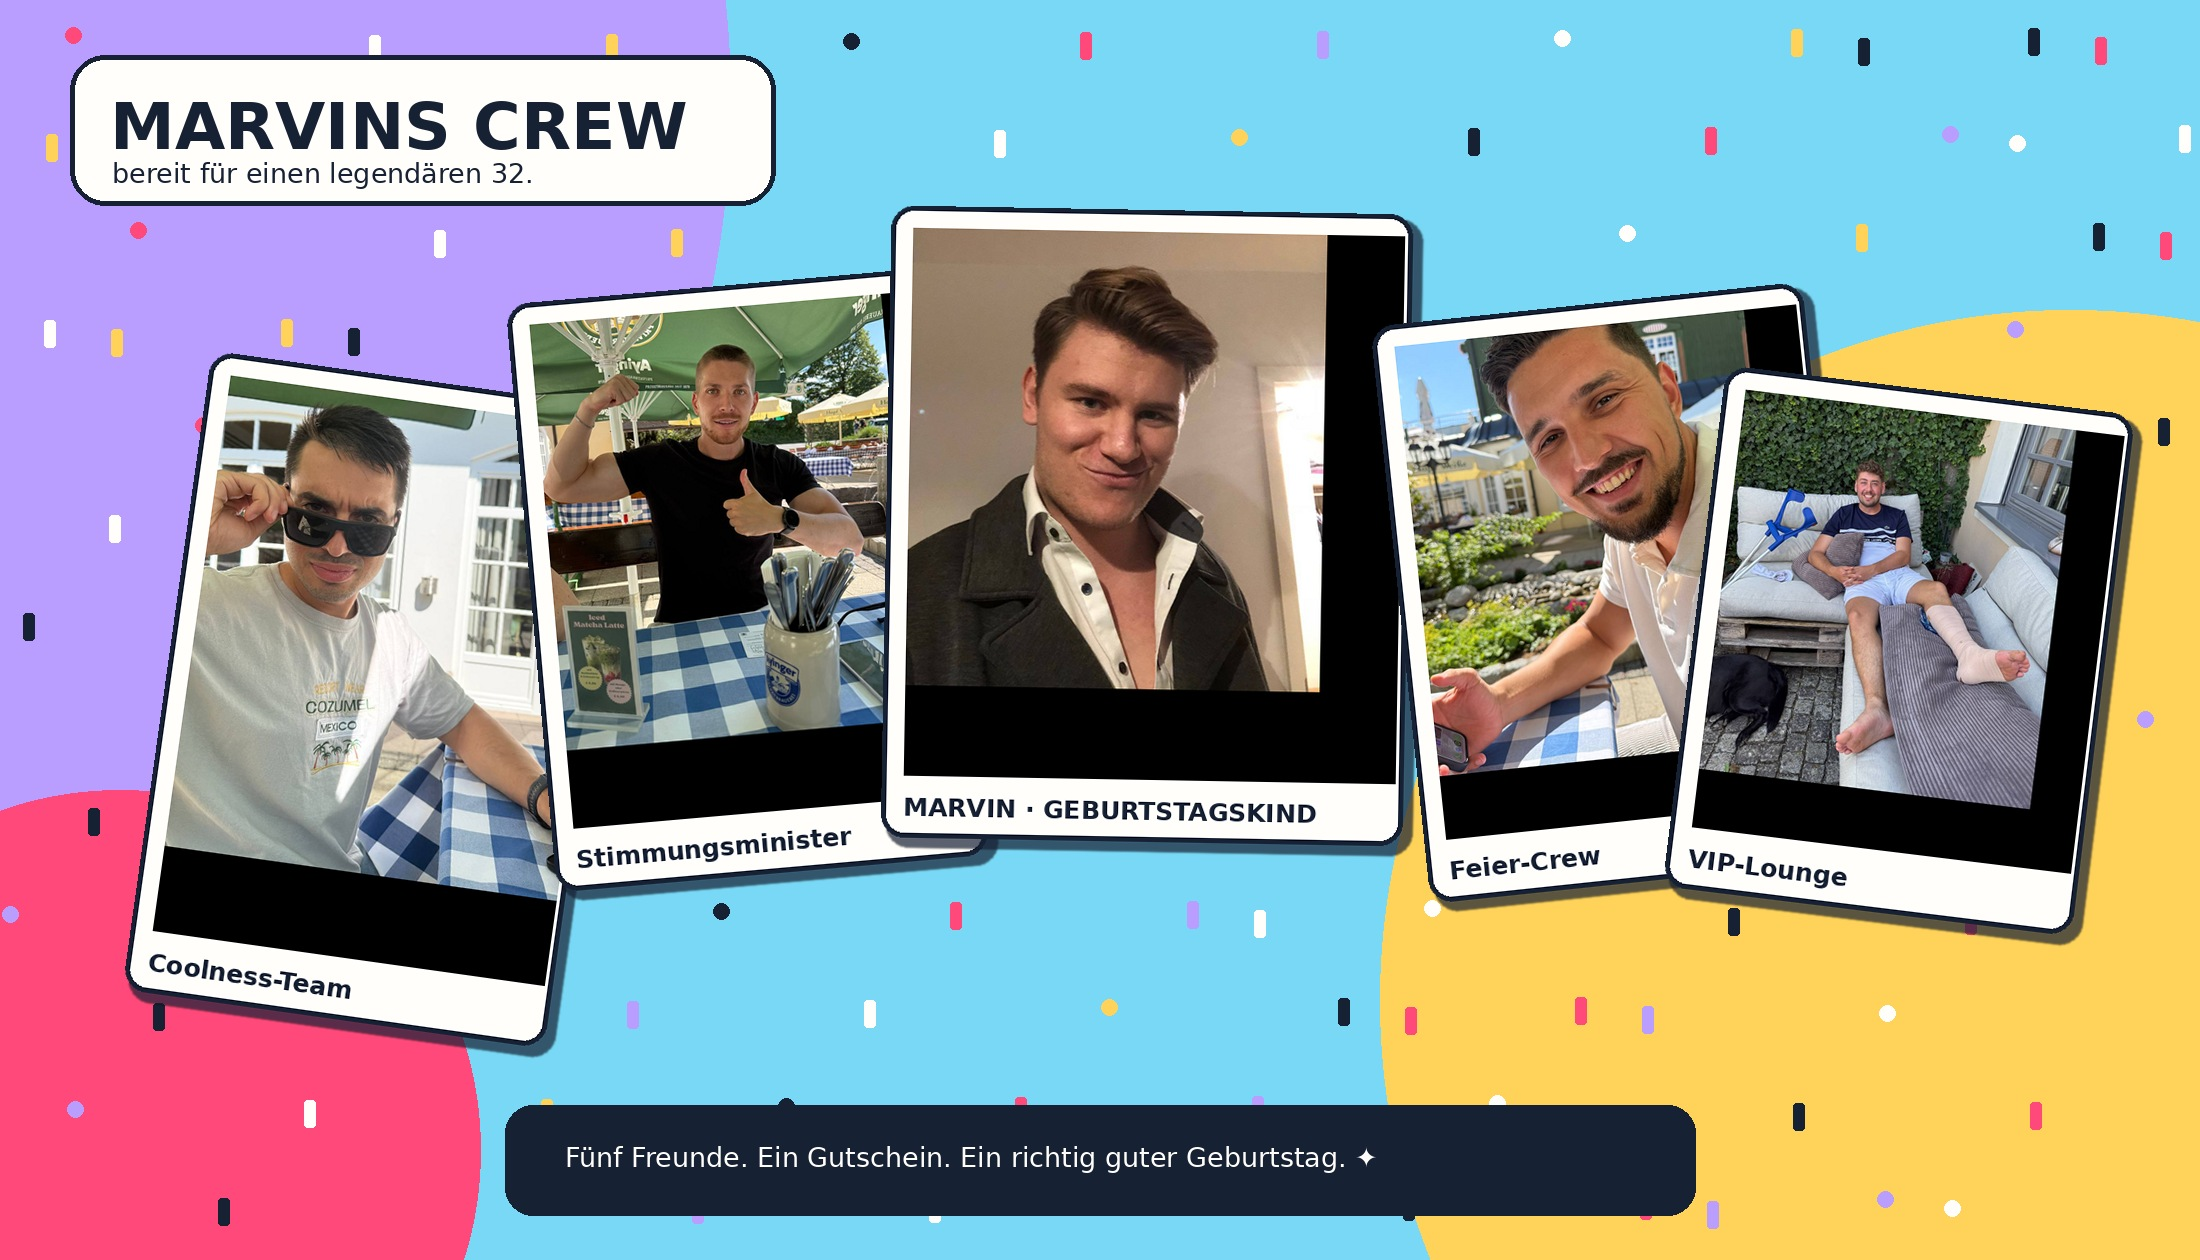
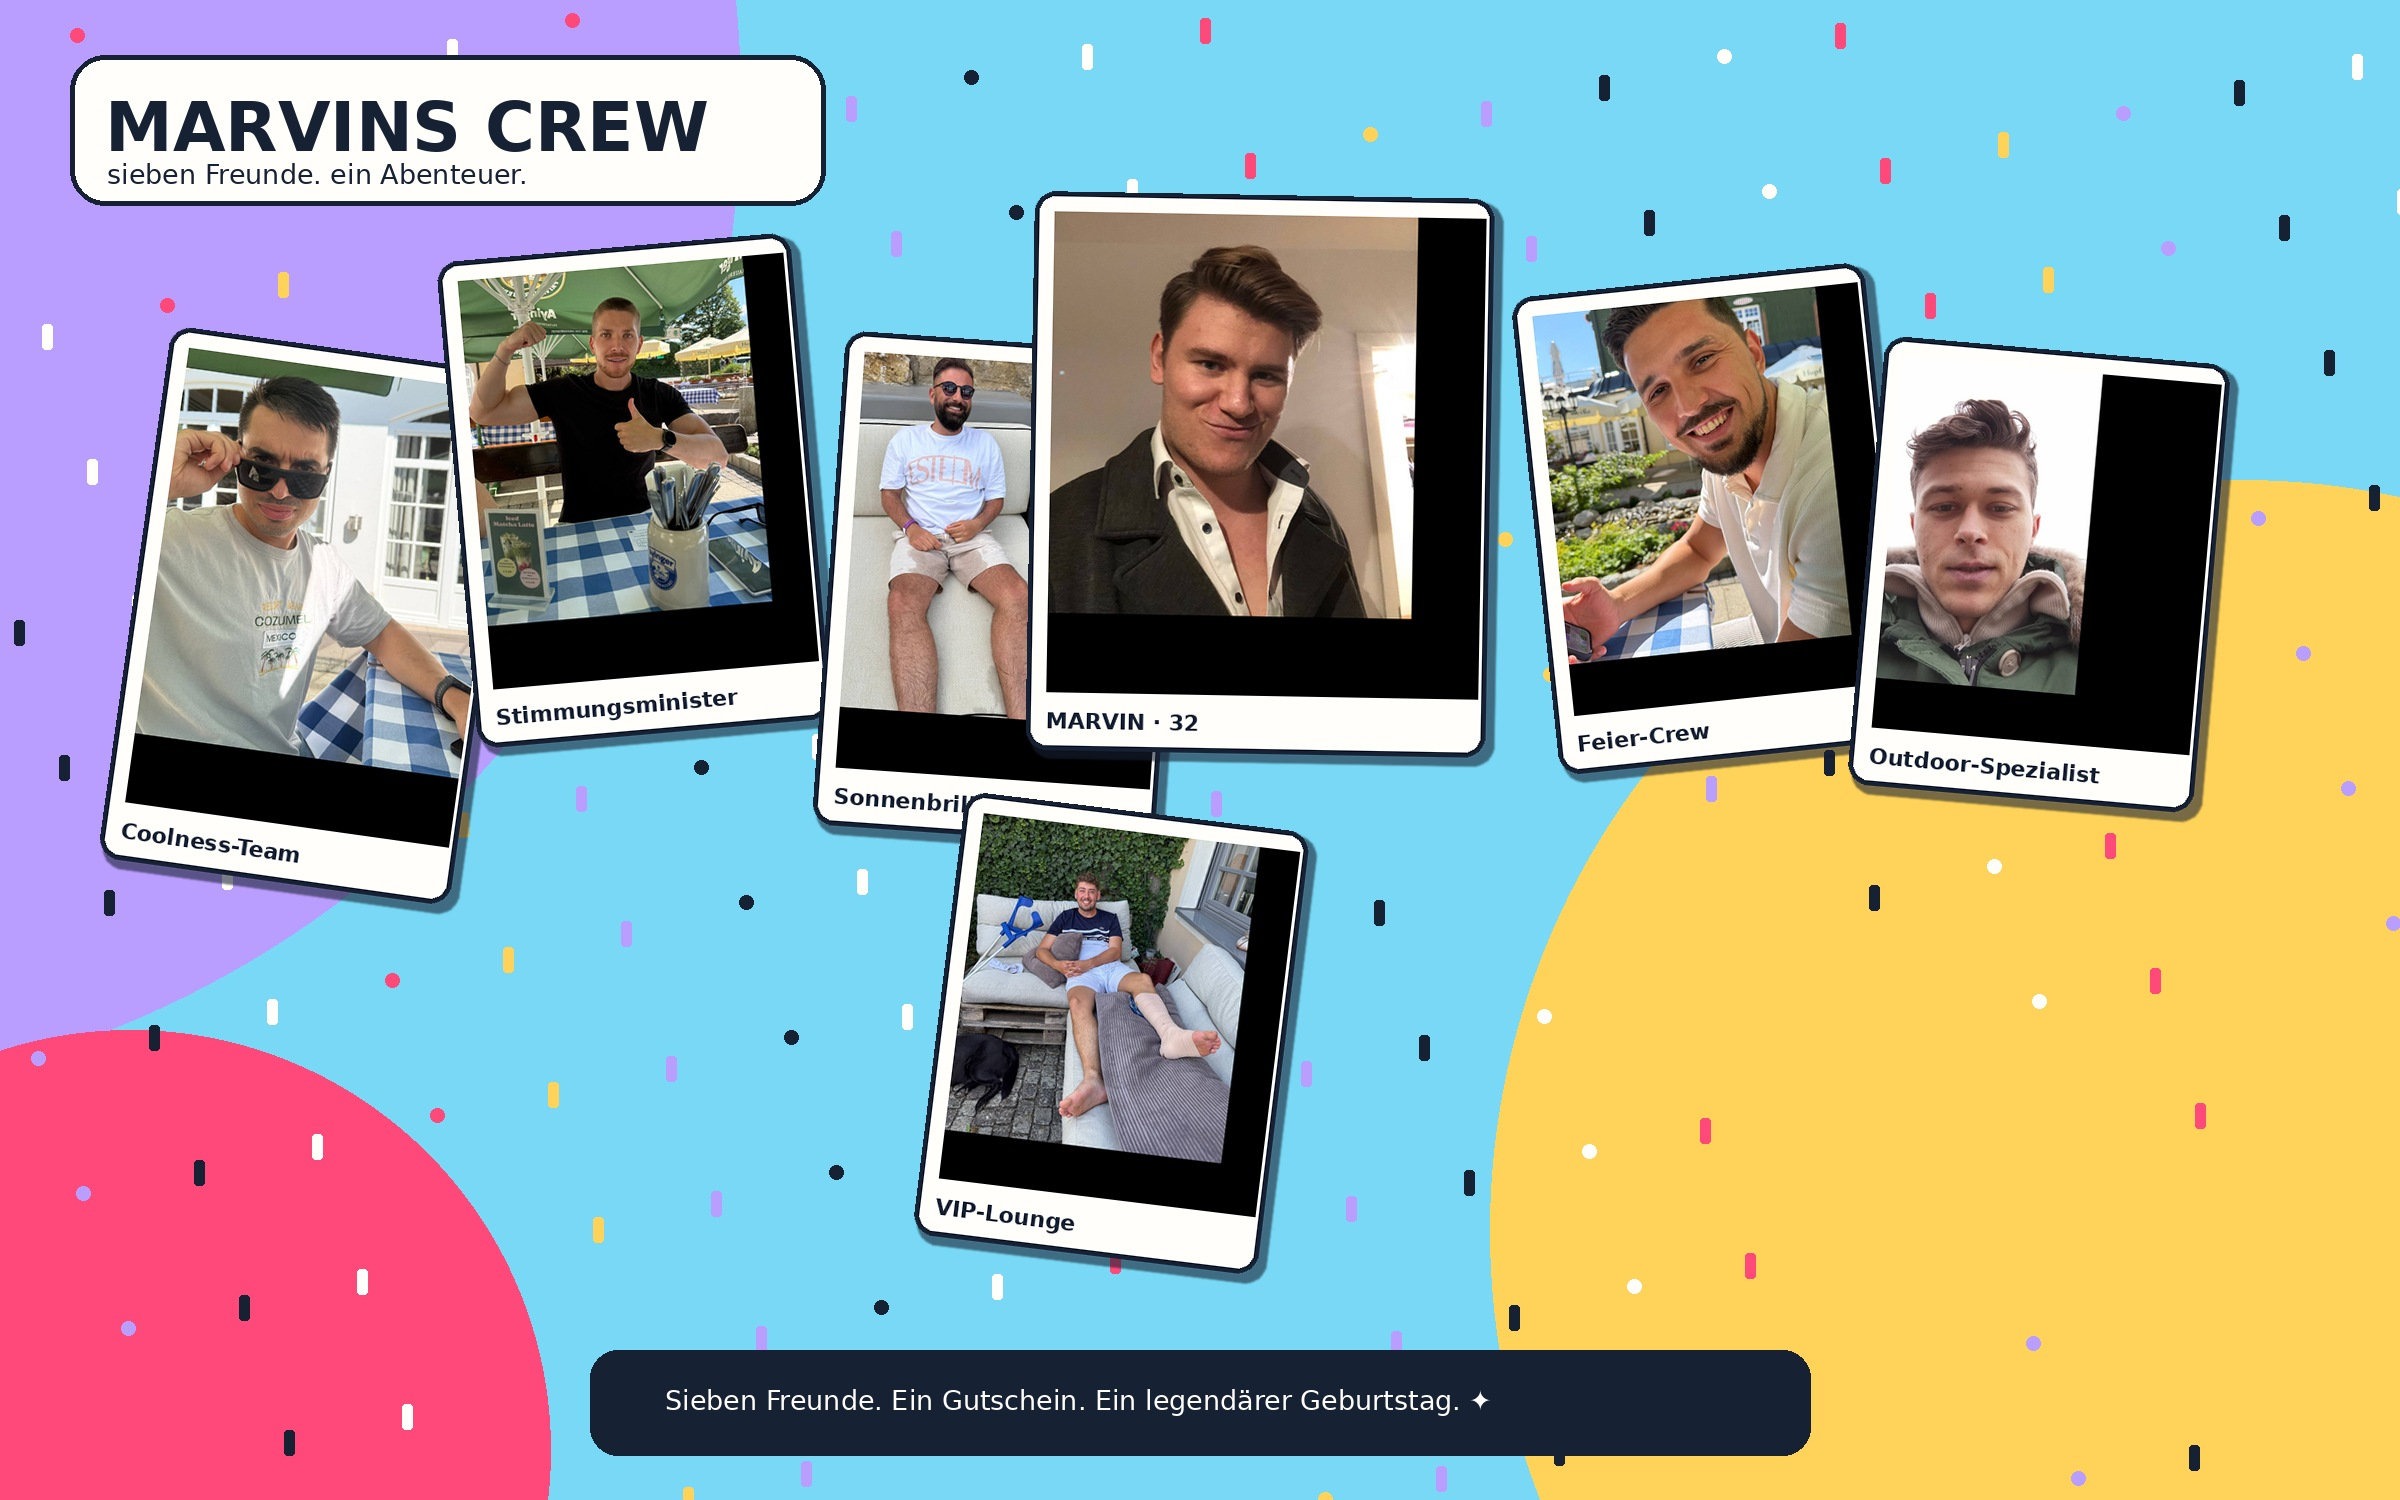
Expand final birthday crew collage

diff --git a/index.html b/index.html
@@ -15,7 +15,7 @@
 </head><body>
 <div class="confetti" id="confetti"></div>
 <main id="gate"><section class="gate-card"><div class="tiny">Nur für Marvin · 32</div><h1>pssst…</h1><p>Hier wartet etwas Buntes, Persönliches und ziemlich Gutes auf dich.</p><button class="unlock" id="unlock">Überraschung öffnen ✦</button><div class="lock-note">Für Marvin · mit Liebe zusammengestellt</div></section></main>
-<main id="gift"><header class="topline"><span>Marvins Geburtstags-Überraschung</span><span class="badge">Level 32 unlocked</span></header><section class="hero"><div class="balloon b1"></div><div class="balloon b2"></div><div class="balloon b3"></div><div class="balloon b4"></div><div class="hero-inner"><div class="eyebrow"><span class="spark">✦</span> heute wird gefeiert</div><h2>Happy<br><em>32.</em> Marvin!</h2><p class="sub">Für ein neues Jahr voller guter Geschichten, großer Ideen und genau der richtigen Portion Abenteuer.</p><div class="scroll-cue">Deine Überraschung <span class="arrow">↓</span></div></div></section><section class="section"><div class="voucher-wrap"><div class="section-head"><div class="tiny">Ein Geschenk für dich</div><h3>Such dir etwas aus,<br>das dich weiterbringt.</h3></div><article class="voucher"><div class="voucher-left"><div class="tiny">Dein Wertgutschein</div><div class="amount">400 €</div><h4>Freie Kurswahl</h4><p>Ganz in deinem Tempo. Ganz nach deinem Geschmack. Dieser Gutschein gehört dir.</p></div><div class="voucher-right"><div><div class="ticket">GUTSCHEIN · 26-057<br>FÜR · MARVIN SIEWERT<br>GÜLTIG BIS · 31.12.2029</div><button class="reveal" id="reveal">Code anzeigen</button><div class="secret" id="secret">Gutscheincode: <strong>pi0z3k</strong></div></div><p class="ticket">Einlösen, Kurs auswählen, loslegen.</p></div></article></div></section><section class="survival"><div class="section-head"><div class="tiny">Mission zum 32.</div><h3>Survival statt<br>Sofasurfen.</h3></div><div class="mission"><div class="mission-copy"><h4>Die Mammut-Mission</h4><p>Ein 400-€-Gutschein für dein nächstes Survival-Training: raus in die Wildnis, Feuer an, Orientierung finden und als Crew wieder heimkommen.</p><p>Marvin geht voran — das Mammut hält die Stellung.</p></div><div class="mission-art"><img src="assets/mammoth-party.svg" alt="Fröhliches Mammut mit Partyhut"></div></div><div class="skills"><div class="skill"><span>01 · Feuer</span><b>Glut statt Google</b><small>Feuer machen, wenn es zählt.</small></div><div class="skill"><span>02 · Orientierung</span><b>Wegfinder</b><small>Karte, Kompass und Kopf.</small></div><div class="skill"><span>03 · Shelter</span><b>Wetterfest</b><small>Schutz bauen, draußen bleiben.</small></div><div class="skill"><span>04 · Crew</span><b>Mammut-Modus</b><small>Zusammen durch jedes Gelände.</small></div></div></section><section class="profiles"><div class="section-head"><div class="tiny">Die Expeditionsteilnehmer</div><h3>Steckbriefe der<br>Survival-Crew.</h3></div><div class="profile-grid"><article class="profile"><img src="assets/guest-sunglasses.jpg" alt="Teilnehmer mit Sonnenbrille"><div><b>Der Coolness-Scout</b><span>Sonnenbrillen-Expertise</span></div></article><article class="profile"><img src="assets/guest-cheers.jpg" alt="Teilnehmer mit Daumen hoch"><div><b>Der Motivator</b><span>Daumen hoch, immer</span></div></article><article class="profile"><img src="assets/birthday-boy.jpg" alt="Marvin, das Geburtstagskind"><div><b>Marvin · 32</b><span>Leit-Mammut</span></div></article><article class="profile"><img src="assets/guest-white-polo.jpg" alt="Teilnehmer der Feier"><div><b>Der Lagerfeuer-Profi</b><span>Feier-Crew</span></div></article><article class="profile"><img src="assets/guest-garden.jpg" alt="Teilnehmer in Gartenlounge"><div><b>Der VIP-Überlebenskünstler</b><span>Ruhe vor dem Sturm</span></div></article></div></section><section class="guests"><div class="section-head"><div class="tiny">Die Mannschaft ist da</div><h3>Alle zusammen<br>für Marvin.</h3></div><figure class="guest-together"><img src="assets/birthday-guests-together.jpg" alt="Fünf Geburtstagsgäste zusammen in einer bunten Geburtstagscollage"><figcaption>Marvin und seine Crew — bereit für die Feier.</figcaption></figure></section></section><footer class="footer">Mit viel Liebe für ein richtig gutes neues Lebensjahr. <span class="spark">✦</span></footer></main>
+<main id="gift"><header class="topline"><span>Marvins Geburtstags-Überraschung</span><span class="badge">Level 32 unlocked</span></header><section class="hero"><div class="balloon b1"></div><div class="balloon b2"></div><div class="balloon b3"></div><div class="balloon b4"></div><div class="hero-inner"><div class="eyebrow"><span class="spark">✦</span> heute wird gefeiert</div><h2>Happy<br><em>32.</em> Marvin!</h2><p class="sub">Für ein neues Jahr voller guter Geschichten, großer Ideen und genau der richtigen Portion Abenteuer.</p><div class="scroll-cue">Deine Überraschung <span class="arrow">↓</span></div></div></section><section class="section"><div class="voucher-wrap"><div class="section-head"><div class="tiny">Ein Geschenk für dich</div><h3>Such dir etwas aus,<br>das dich weiterbringt.</h3></div><article class="voucher"><div class="voucher-left"><div class="tiny">Dein Wertgutschein</div><div class="amount">400 €</div><h4>Freie Kurswahl</h4><p>Ganz in deinem Tempo. Ganz nach deinem Geschmack. Dieser Gutschein gehört dir.</p></div><div class="voucher-right"><div><div class="ticket">GUTSCHEIN · 26-057<br>FÜR · MARVIN SIEWERT<br>GÜLTIG BIS · 31.12.2029</div><button class="reveal" id="reveal">Code anzeigen</button><div class="secret" id="secret">Gutscheincode: <strong>pi0z3k</strong></div></div><p class="ticket">Einlösen, Kurs auswählen, loslegen.</p></div></article></div></section><section class="guests"><div class="section-head"><div class="tiny">Die Mannschaft ist da</div><h3>Alle zusammen<br>für Marvin.</h3></div><figure class="guest-together"><img src="assets/birthday-guests-together.jpg" alt="Sieben Geburtstagsgäste zusammen in einer bunten Geburtstagscollage"><figcaption>Marvin und seine siebenköpfige Crew — bereit für die Feier.</figcaption></figure></section></section><footer class="footer">Mit viel Liebe für ein richtig gutes neues Lebensjahr. <span class="spark">✦</span></footer></main>
 <script>
 const c=document.getElementById('confetti');for(let i=0;i<48;i++){const x=document.createElement('i');x.style.left=Math.random()*100+'%';x.style.animationDuration=(4+Math.random()*6)+'s';x.style.animationDelay=(-Math.random()*8)+'s';x.style.rotate=Math.random()*360+'deg';c.appendChild(x)}
 